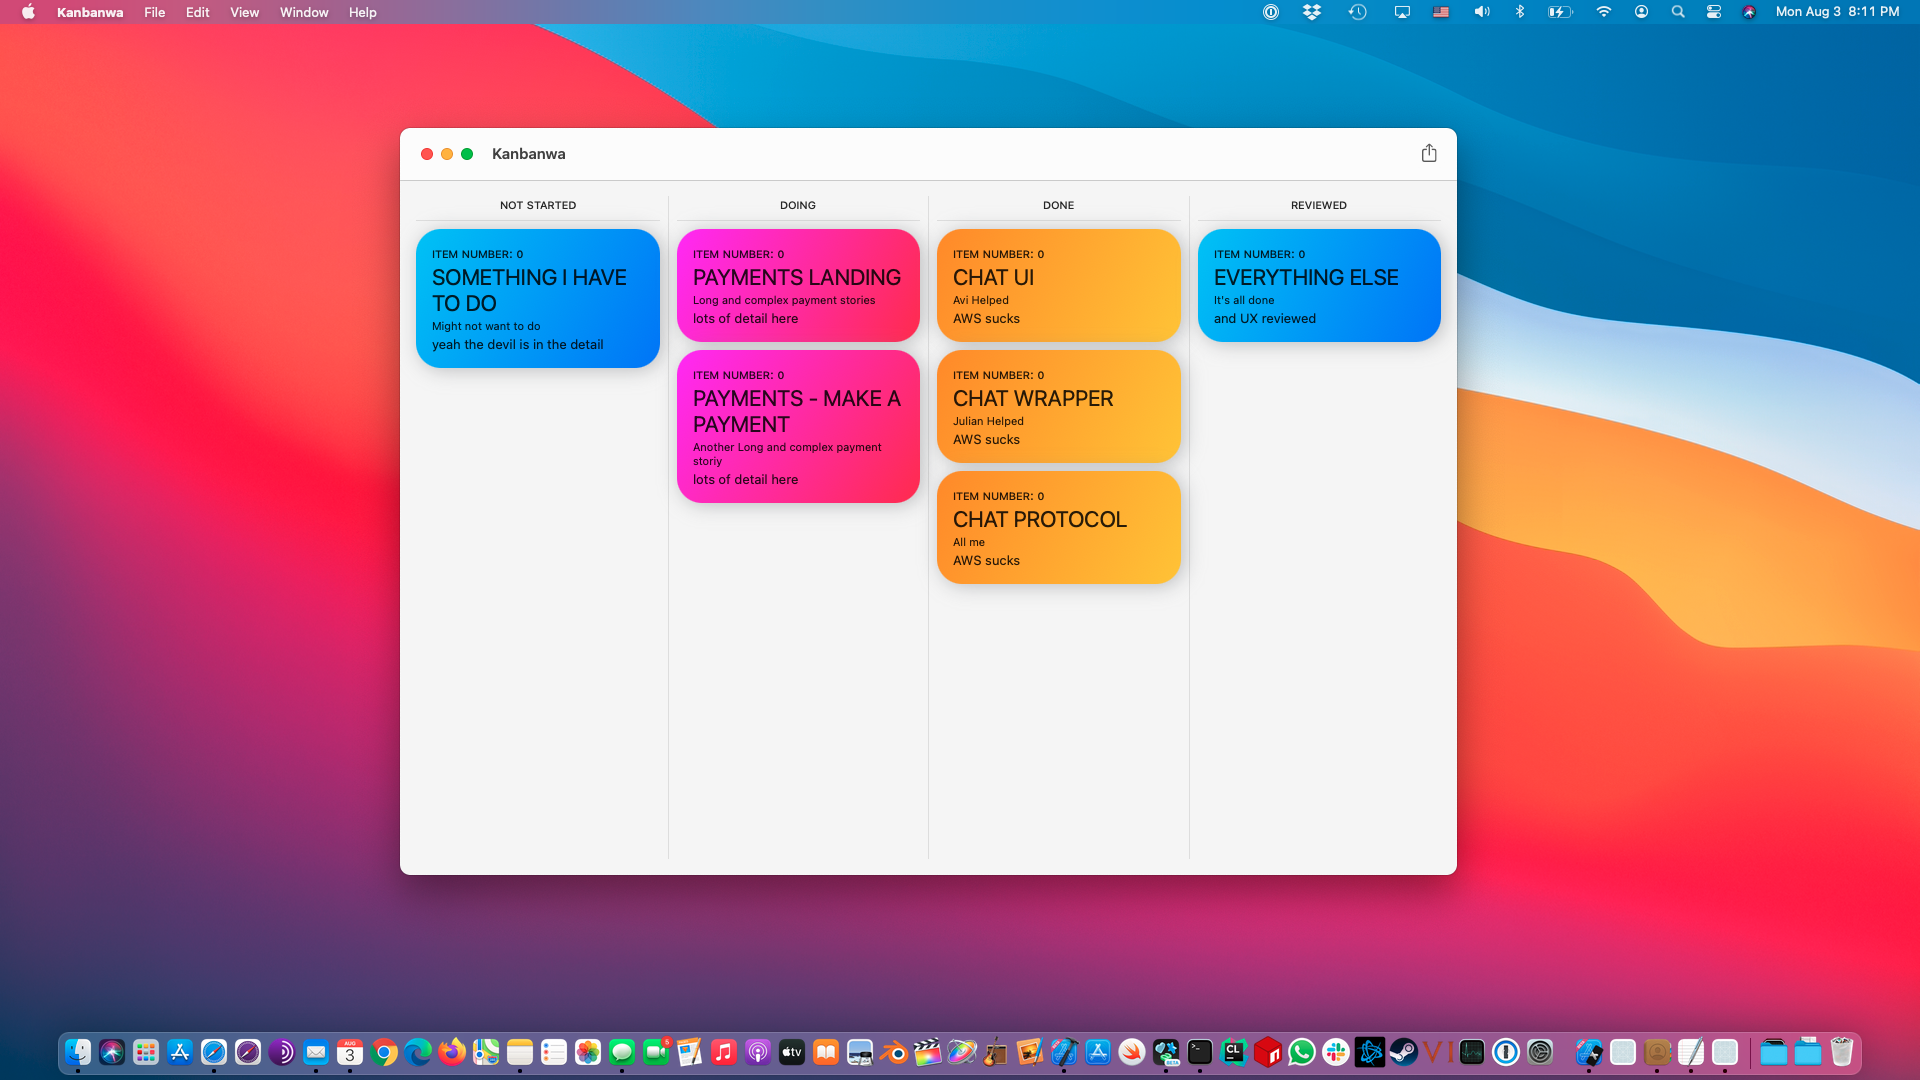
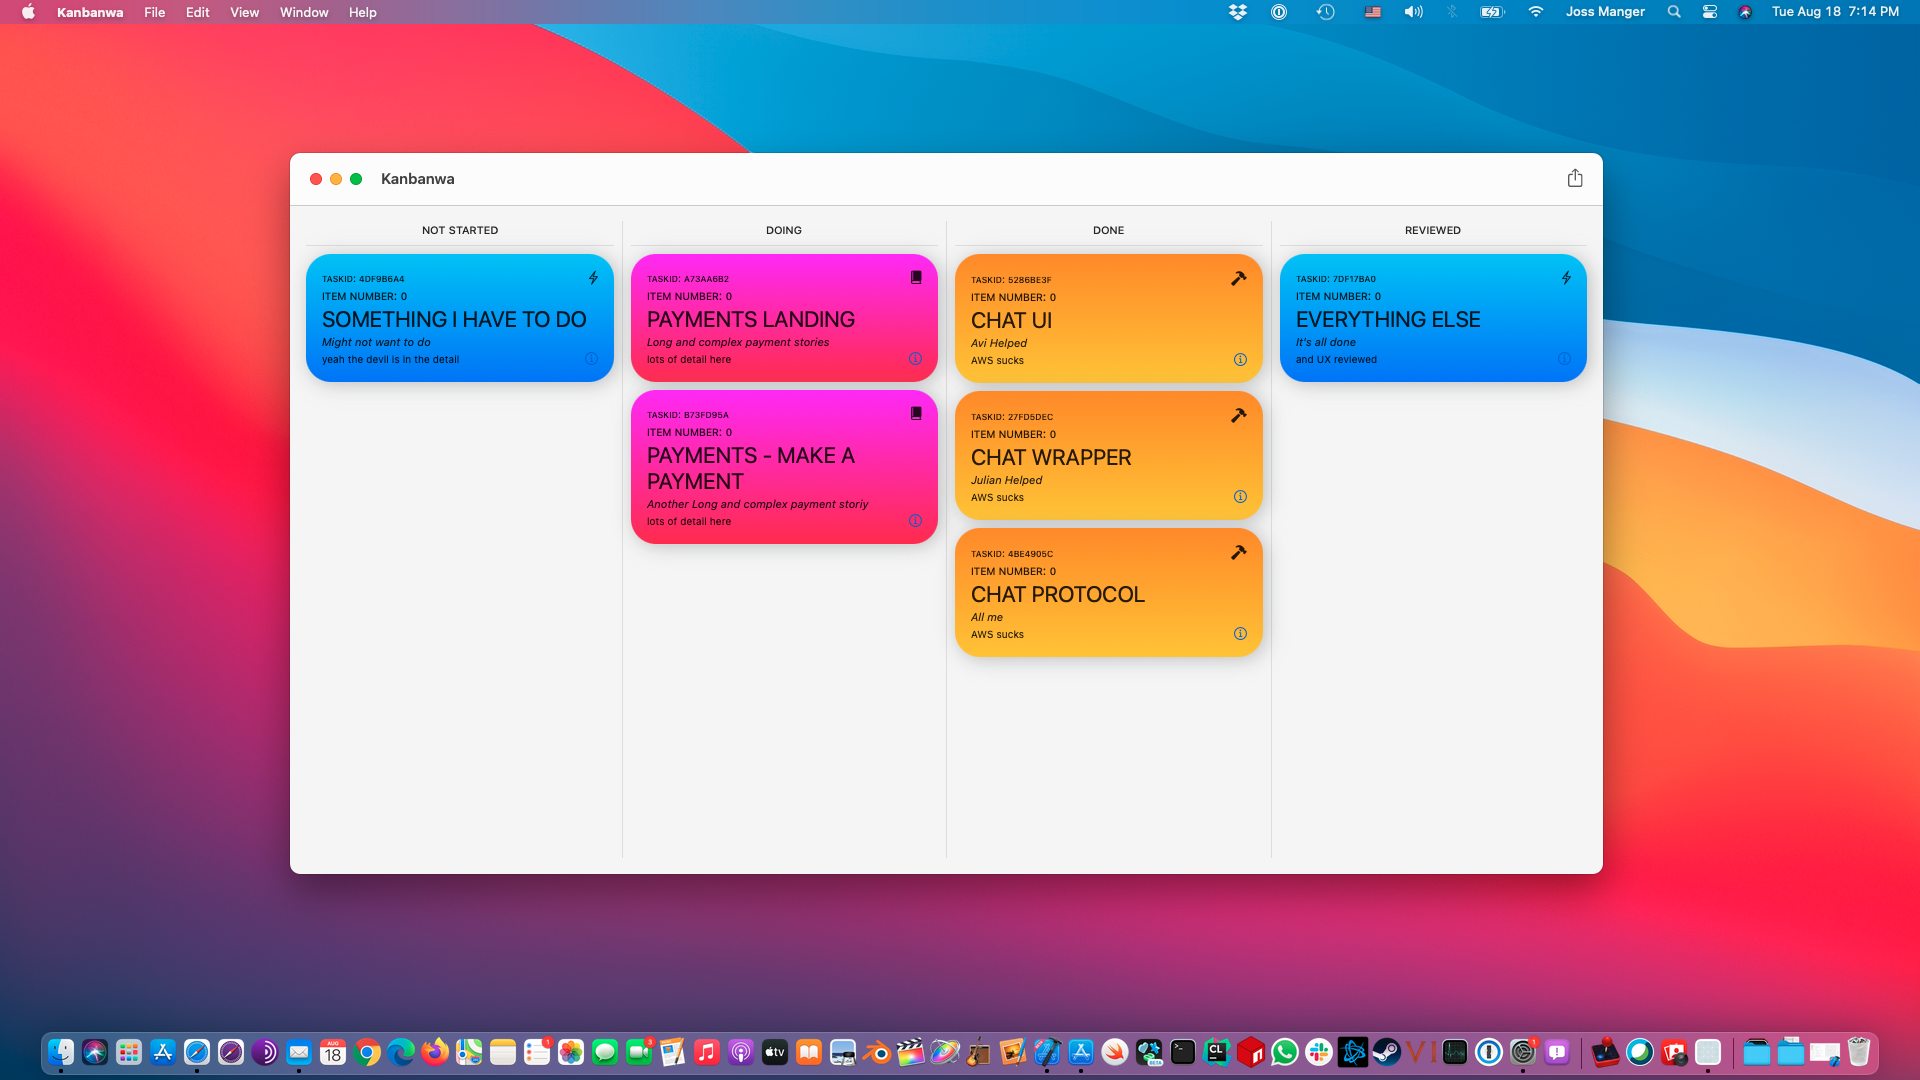
updates readme and screenshot

Changed region(s): [[0.125, 0.0917, 0.8438, 0.8556], [0.0, 0.9472, 1.0, 1.0], [0.625, 0.0, 0.9688, 0.0306]]

diff --git a/README.md b/README.md
@@ -2,7 +2,7 @@
 
 #  Kanbanwa
 
-## For Those Late Night Projects...
+### For Those Late Night Projects...
 
 ### SwiftUI LifeCycle Prototype Kanban Board
 
@@ -13,5 +13,7 @@
 #### TODO
 * Animated Drag and drop
 * CRUD
-* Save
+* CRUD for columns
+* Detail screens
+* Save to... json?
 * Nicer Gradients
